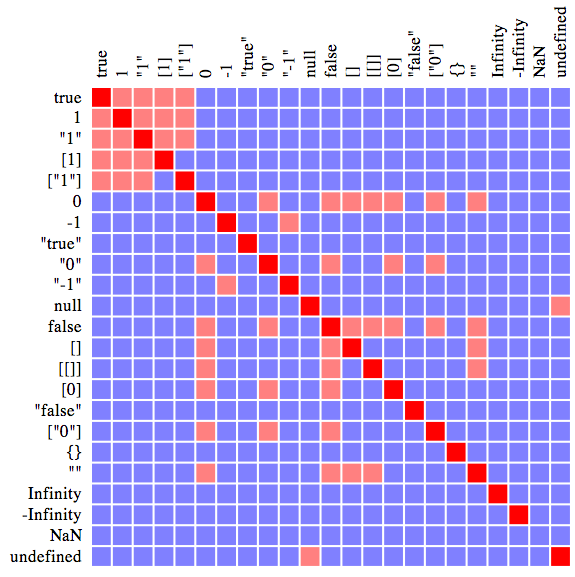
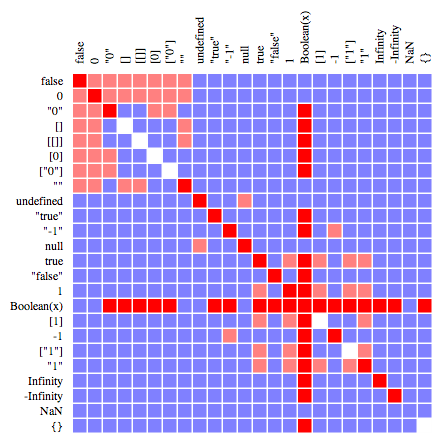
javascript truth updated

diff --git a/correxplorer.js b/correxplorer.js
@@ -22,18 +22,40 @@ var js_comparison_table = function () {
                 -Infinity,
                 NaN,
                 {}];
+  var values2 = [true, false,
+                'true', 'false',
+                1, 0, -1,
+                '1', '0', '-1',
+                null, undefined,
+                [], [[]],
+                [0], [1],
+                ['0'], ['1'],
+                '',
+                Infinity,
+                -Infinity,
+                NaN,
+                {}];
+  // as for objects it makes difference if they are the same
   var rows = [];
   var row = [];
   var i, j;
+  var val1, val2;
 
+  //
+  row = values2.map(Boolean).map(function (x) {
+    return x ? 1 : -0.5;
+  });
+  rows.push([1].concat(row));
   for (i = 0; i < values.length; i++) {
-    row = [];
-    for (j = 0; j < values.length; j++) {
-      if (values[i] === values[j]) {
+    row = [Boolean(values[i]) ? 1 : -0.5];
+    for (j = 0; j < values2.length; j++) {
+      if (values[i] === values2[j]) {
         row.push(1.);
-      } else if (values[i] == values[j]) {
+      } else if (values[i] == values2[j]) {
         row.push(0.5);
-      } else if (values[i] != values[j]) {
+      } else if (values[i] == values[j]) {
+        row.push(0);
+      } else if (values[i] != values2[j]) {
         // row.push(-1);
         row.push(-0.5);  // purely for graphical reasons
       } else {
@@ -43,7 +65,7 @@ var js_comparison_table = function () {
     rows.push(row);
   }
 
-  return {labels: values.map(stringify),
+  return {labels: ["Boolean(x)"].concat(values.map(stringify)),
           rows: rows};
 };
 
